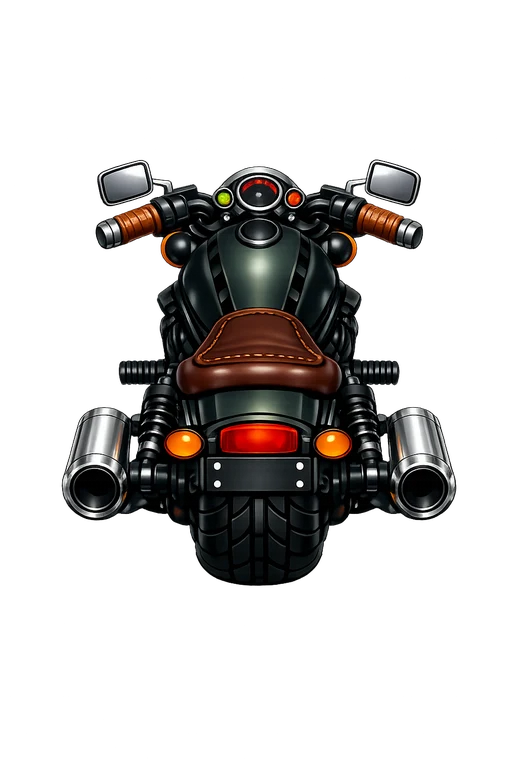
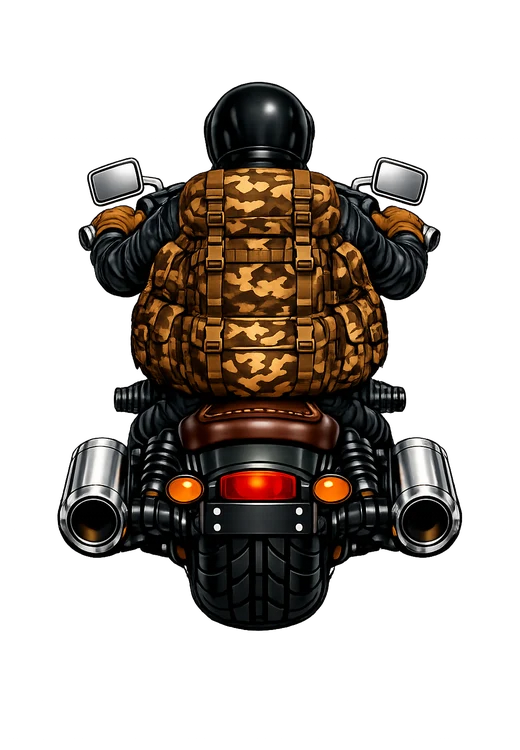
🏍 รอบ 299: เปลี่ยนภาพมอไซค์เป็น riderWithGlove (คนขี่แจ็คเก็ตหนัง+เป้ลายพราง) — bike.webp ใหม่ + ?v=299 bust cache

diff --git a/js/moto3d.js b/js/moto3d.js
@@ -137,7 +137,7 @@ function buildDom(){
     <button id="moto-power"><span class="m-hint">ออก</span></button>
     <div id="moto-screen">
       <canvas id="moto-cv"></canvas>
-      <img id="moto-bike" src="img/moterbike/bike.webp" alt="">
+      <img id="moto-bike" src="img/moterbike/bike.webp?v=299" alt="">
       <div id="moto-word"></div>
       <div id="moto-coins">🪙 +0</div>
       <div id="moto-gps"><span id="moto-gps-arr">➤</span><span id="moto-gps-d">--</span></div>
